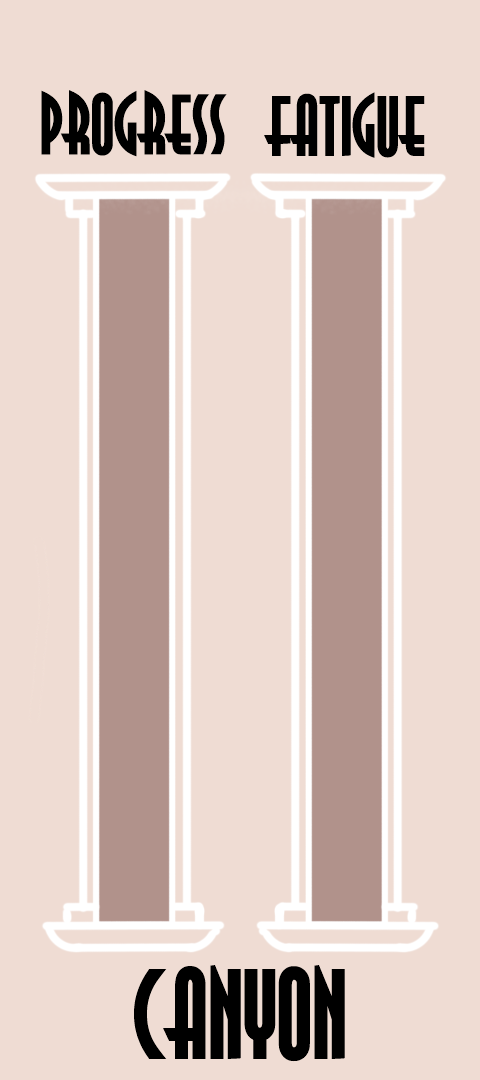
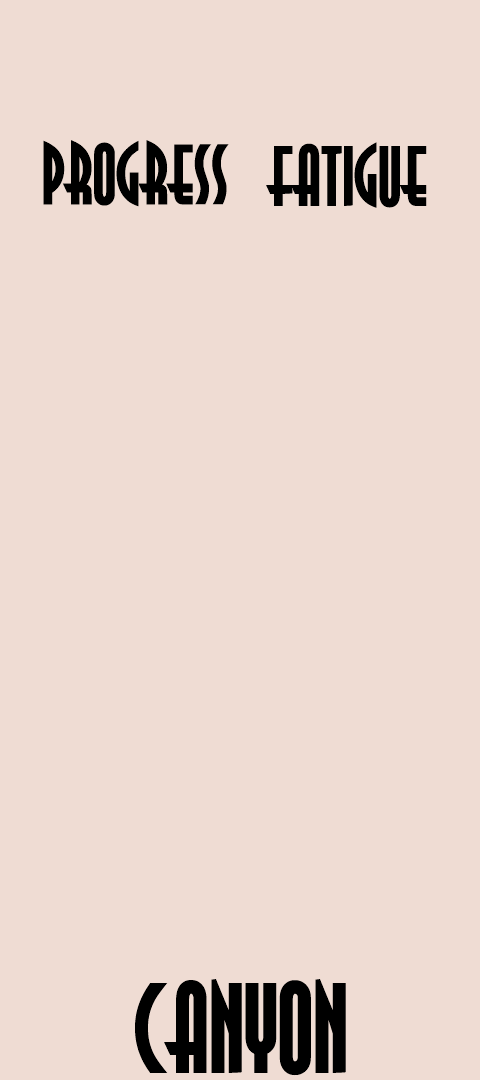
#29 energy bar complete.

diff --git a/MountSputnik/core/src/beigegang/mountsputnik/GameMode.java b/MountSputnik/core/src/beigegang/mountsputnik/GameMode.java
@@ -51,6 +51,7 @@ public class GameMode extends ModeController {
 	private static final String LEVEL_NAMES[] = {"canyon", "tutorial"};//,"mountain","sky","space","tutorial"}; <-- Add the rest of these in as they are given assets
 	private static final String LAVA_FILE = "assets/testlavatexture.png"; //TODO: make this a better texture
 	private static final String UI_FILE = "assets/HUD.png";
+	private static final String LOGO_FILE = "Menu/StartMenu/Logo Only.png";
 	private static final String HANDHOLD_TEXTURES[] = {"assets/canyon/Handhold1.png", "assets/canyon/Handhold2.png"};
 	private static final String PART_TEXTURES[] = {"Ragdoll/Torso.png", "Ragdoll/Head.png", "Ragdoll/Hips.png",
 			"Ragdoll/ArmLeft.png", "Ragdoll/ArmRight.png", "Ragdoll/ForearmLeft.png", "Ragdoll/ForearmRight.png",
@@ -67,8 +68,13 @@ public class GameMode extends ModeController {
 			"Ragdoll/controls/360_LT_selected.png", 
 			"Ragdoll/controls/360_RT_selected.png"
 	};
-//	private static final String ENERGY_TEXTURES[] = {"assets/Energy/bar1.png","assets/Energy/bar2.png","assets/Energy/bar3.png","assets/Energy/bar4.png","assets/Energy/bar5.png","assets/Energy/bar6.png","assets/Energy/bar7.png","assets/Energy/bar8.png","assets/Energy/bar9.png","assets/Energy/bar10.png"};
-//	private static TextureRegion[] energyTextures =  new TextureRegion[ENERGY_TEXTURES.length];
+
+//	private static TextureRegion[] energyTextures;
+	private static final String ENERGY_TEXTURES[] = new String[10];
+
+//	private static final String ENERGY_TEXTURES2[] = new String[]
+//			{"Energy/e1.png","Energy/e2.png","Energy/e3.png","Energy/e4.png","Energy/e5.png","Energy/e6.png","Energy/e7.png","Energy/e8.png","Energy/e9.png","Energy/e10.png"};
+	private static TextureRegion[] energyTextures =  new TextureRegion[ENERGY_TEXTURES.length];
 	/**
 	 * font for displaying debug values to screen
 	 */
@@ -81,6 +87,7 @@ public class GameMode extends ModeController {
 	private static TextureRegion midground;
 	private static TextureRegion tile;
 	private static TextureRegion UI;
+	private static TextureRegion LOGO;
 	private static TextureRegion edge;
 	private static TextureRegion ground;
 	private static TextureRegion lavaTexture;
@@ -90,6 +97,10 @@ public class GameMode extends ModeController {
 	private static TextureRegion energyDisplay;
 	private static TextureRegion blackoutTexture;
 	private static String BLACKOUT = "assets/blackout.png";
+	private static String FATIGUE_BAR = "Energy/Fatigue Gauge.png";
+	private static TextureRegion fatigueTexture;
+	private static String PROGRESS_BAR= "assets/Progress Bar.png";
+	private static TextureRegion progressTexture;
 	private Sprite blackoutSprite = new Sprite(new Texture(BLACKOUT));
 	private static SpriteBatch batch = new SpriteBatch();
 
@@ -133,12 +144,16 @@ public class GameMode extends ModeController {
 			manager.load("assets/"+name+"/LevelStart.png", Texture.class);
 			assets.add("assets/"+name+"/LevelStart.png");
 		}
-//		for (String name: ENERGY_TEXTURES){
-//			manager.load(name, Texture.class);
-//			assets.add(name);
-//		}
+		for (int i = 1; i<=ENERGY_TEXTURES.length; i++){
+			String name = "Energy/e" + i + ".png";
+			manager.load(name, Texture.class);
+			assets.add(name);
+			ENERGY_TEXTURES[i-1] = name;
+		}
 		manager.load(UI_FILE, Texture.class);
 		assets.add(UI_FILE);
+		manager.load(LOGO_FILE, Texture.class);
+		assets.add(LOGO_FILE);
 		manager.load(LAVA_FILE, Texture.class);
 		assets.add(LAVA_FILE);
 
@@ -156,6 +171,10 @@ public class GameMode extends ModeController {
 		}
 		manager.load(BLACKOUT,Texture.class);
 		assets.add(BLACKOUT);
+		manager.load(FATIGUE_BAR,Texture.class);
+		assets.add(FATIGUE_BAR);
+		manager.load(PROGRESS_BAR,Texture.class);
+		assets.add(PROGRESS_BAR);
 	}
 
 	/**
@@ -175,6 +194,7 @@ public class GameMode extends ModeController {
 		midground = createTexture(manager, "assets/"+levelName+"/Midground.png", false);
 		tile = createTexture(manager, "assets/"+levelName+"/SurfaceLight.png", false);
 		UI = createTexture(manager, UI_FILE, false);
+		LOGO = createTexture(manager, LOGO_FILE, false);
 		edge = createTexture(manager, "assets/"+levelName+"/SurfaceEdgeLight.png", false);
 		ground = createTexture(manager, "assets/"+levelName+"/LevelStart.png", false);
 		lavaTexture = createTexture(manager, LAVA_FILE, false);
@@ -190,10 +210,12 @@ public class GameMode extends ModeController {
 		for (int i = 0; i < HANDHOLD_TEXTURES.length; i++) {
 			handholdTextures[i] = createTexture(manager, HANDHOLD_TEXTURES[i], false);
 		}
-//		for (int i = 0; i < ENERGY_TEXTURES.length; i++) {
-//			energyTextures[i] = createTexture(manager, ENERGY_TEXTURES[i], false);
-//		}
+		for (int i = 0; i < ENERGY_TEXTURES.length; i++) {
+			energyTextures[i] = createTexture(manager, ENERGY_TEXTURES[i], false);
+		}
 		blackoutTexture = createTexture(manager,BLACKOUT,false);
+		fatigueTexture = createTexture(manager,FATIGUE_BAR,false);
+		progressTexture = createTexture(manager,PROGRESS_BAR,false);
 		assetState = AssetState.COMPLETE;
 	}
 
@@ -221,8 +243,9 @@ public class GameMode extends ModeController {
 	private ObstacleZone obstacleZone;
 	private RisingObstacle risingObstacle = null;
 	private ObstacleModel obstacle;
-	private ObstacleWarning obstacleWarning;
+	/** all obstacle zones in level */
 	private Array<ObstacleZone> obstacles = new Array<ObstacleZone>();
+	/** Current obstacle warnings to display */
 	private Array<ObstacleZone> obstacleWarnings = new Array<ObstacleZone>();
 	/**
 	 * Whether we have completed this level
@@ -273,7 +296,6 @@ public class GameMode extends ModeController {
 		objects.clear();
 		obstacles.clear();
 		obstacleWarnings.clear();
-//		System.out.println(obstacles.size);
 		addQueue.clear();
 		world.dispose();
 		timestep = 0;
@@ -959,7 +981,10 @@ public class GameMode extends ModeController {
 
 		canvas.draw(ground, Color.WHITE, canvas.getWidth() / 4, 0, canvas.getWidth() / 2, canvas.getHeight() / 8);
 		canvas.draw(UI, Color.WHITE, 0, y, canvas.getWidth() / 4, canvas.getHeight());
-//		canvas.draw(energyTextures[Math.min(energyLevel,energyTextures.length - 1)], Color.WHITE, canvas.getWidth() / 8 + 50, y, canvas.getWidth() / 8 - 100, canvas.getHeight());
+		canvas.draw(LOGO, Color.FIREBRICK, 0, canvas.getHeight() * 5.4f/6 + y, canvas.getWidth() / 4, canvas.getHeight() * .5f/6);
+		canvas.draw(energyTextures[Math.min(energyLevel,energyTextures.length - 1)], Color.WHITE, 0, y, canvas.getWidth() / 4, canvas.getHeight());
+		canvas.draw(fatigueTexture, Color.WHITE, 0, y, canvas.getWidth() / 4, canvas.getHeight());
+		canvas.draw(progressTexture, Color.WHITE, 0, y, canvas.getWidth() / 4, canvas.getHeight());
 		canvas.end();
 
 		canvas.begin();
@@ -971,8 +996,8 @@ public class GameMode extends ModeController {
 		if (complete) {
 			canvas.drawText("YOU WIN", font, canvas.getWidth() / 2, canvas.getCamera().position.y);
 		}
-		canvas.drawText(((Integer) (Math.round(character.getEnergy()))).toString(), font, 0f,
-				canvas.getCamera().position.y + canvas.getHeight() / 2 - 10f);
+//		canvas.drawText(((Integer) (Math.round(character.getEnergy()))).toString(), font, 0f,
+//				canvas.getCamera().position.y + canvas.getHeight() / 2 - 10f);
 
 		if (risingObstacle != null) {
 			float lavaOrigin = risingObstacle.getHeight() * scale.y -
@@ -986,34 +1011,13 @@ public class GameMode extends ModeController {
 		}
 		canvas.end();
 		float f = character.getEnergy();
-
 		if ( f<= 40){
-//			Color c = Color.BLACK;
-//			c.set(0,0,0,Math.abs(energyLevel * 5)/100f);
-//			c.set(0,0,0,Math.abs(50)/100f);
 			blackoutSprite.setAlpha((Math.abs(f-100f)/100f - .5f)*1.5f);
 			batch.begin();
-////			batch.setBlendFunction(GameCanvas.BlendState.ALPHA_BLEND);
-//
-////			batch.draw(blackoutTexture,canvas.getWidth()/4,0,canvas.getWidth()*2/4,canvas.getHeight());
-//////			batch.draw(new Texture("assets/blackout.png"),new Vector2(canvas.getWidth()*2/4,canvas.getHeight()),c);
 			blackoutSprite.draw(batch);
-//
 			batch.end();
-//			Texture t;
-//			Sprite s = new Sprite (blackoutTexture);
-//			blackoutTexture.
-//			canvas.draw(blackoutTexture,Color.WHITE,canvas.getWidth()/4,0,canvas.getWidth()*2/4,canvas.getHeight());
 		}
 
-
-//		if (energyLevel >=-1){
-//			if (flashing){
-//				flashing = false;
-//			}else{
-//				flashing = true;
-//			}
-//		}
 		if (debug) {
 			canvas.beginDebug();
 			for(GameObject obj : objects) {
